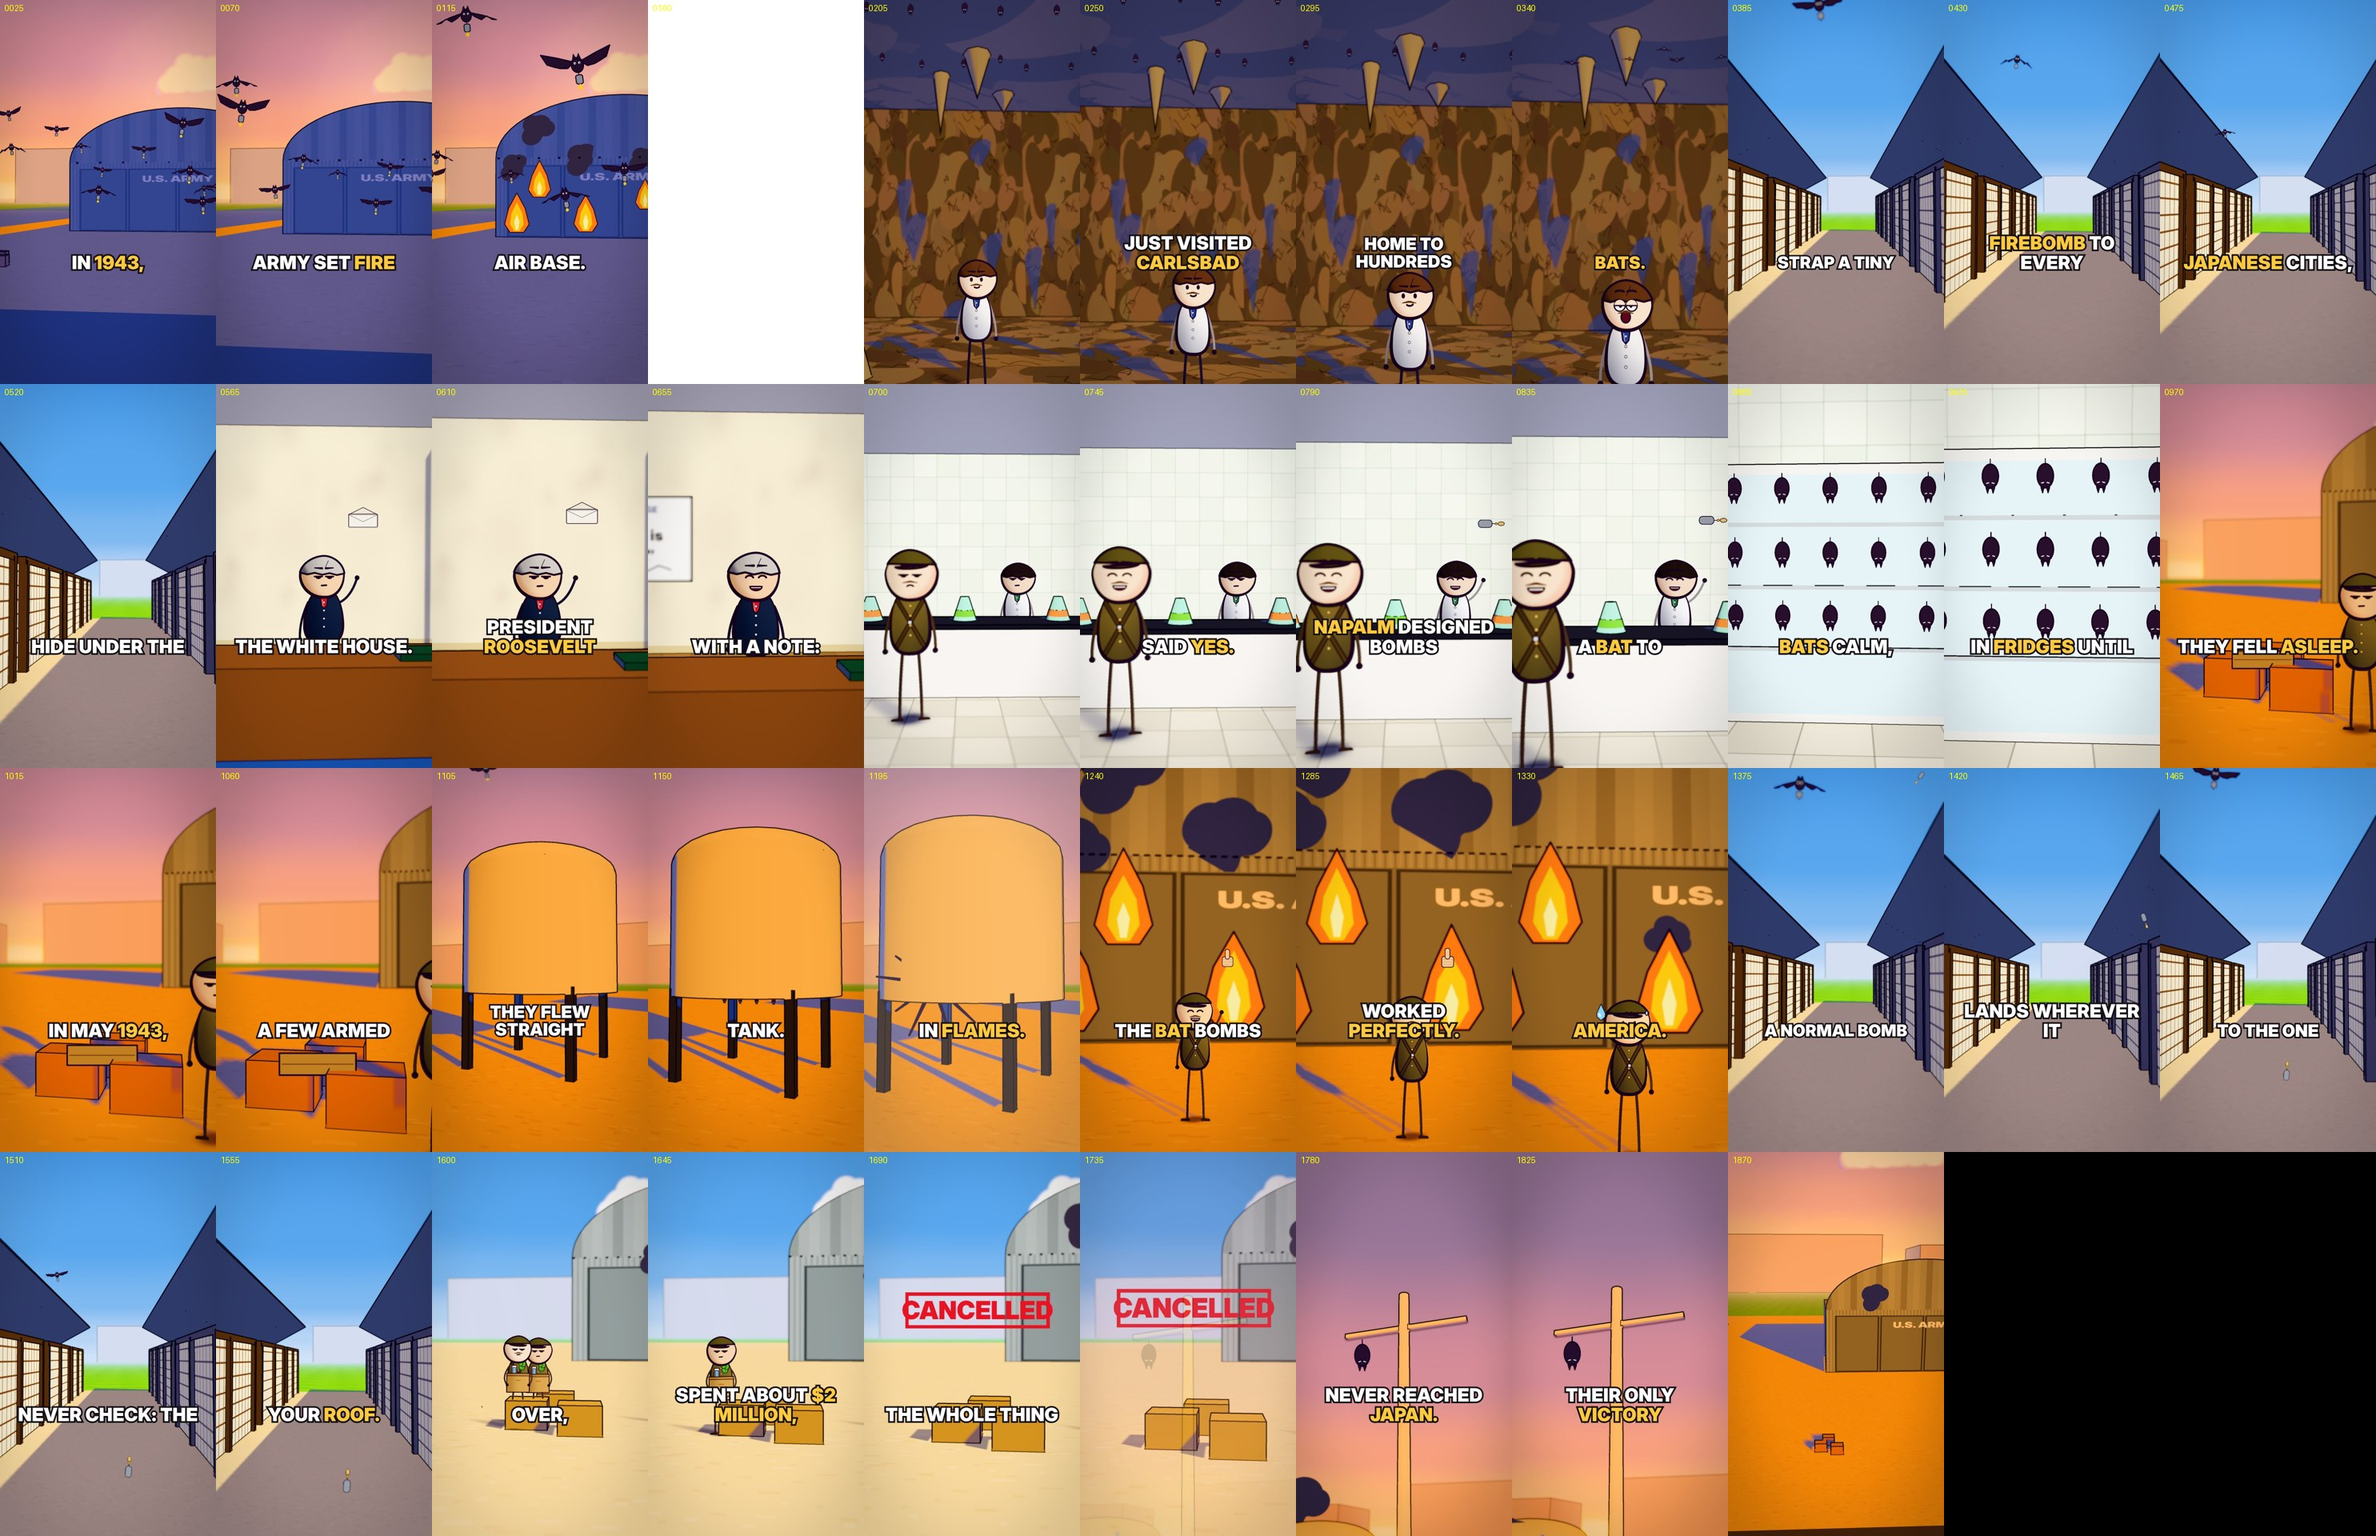
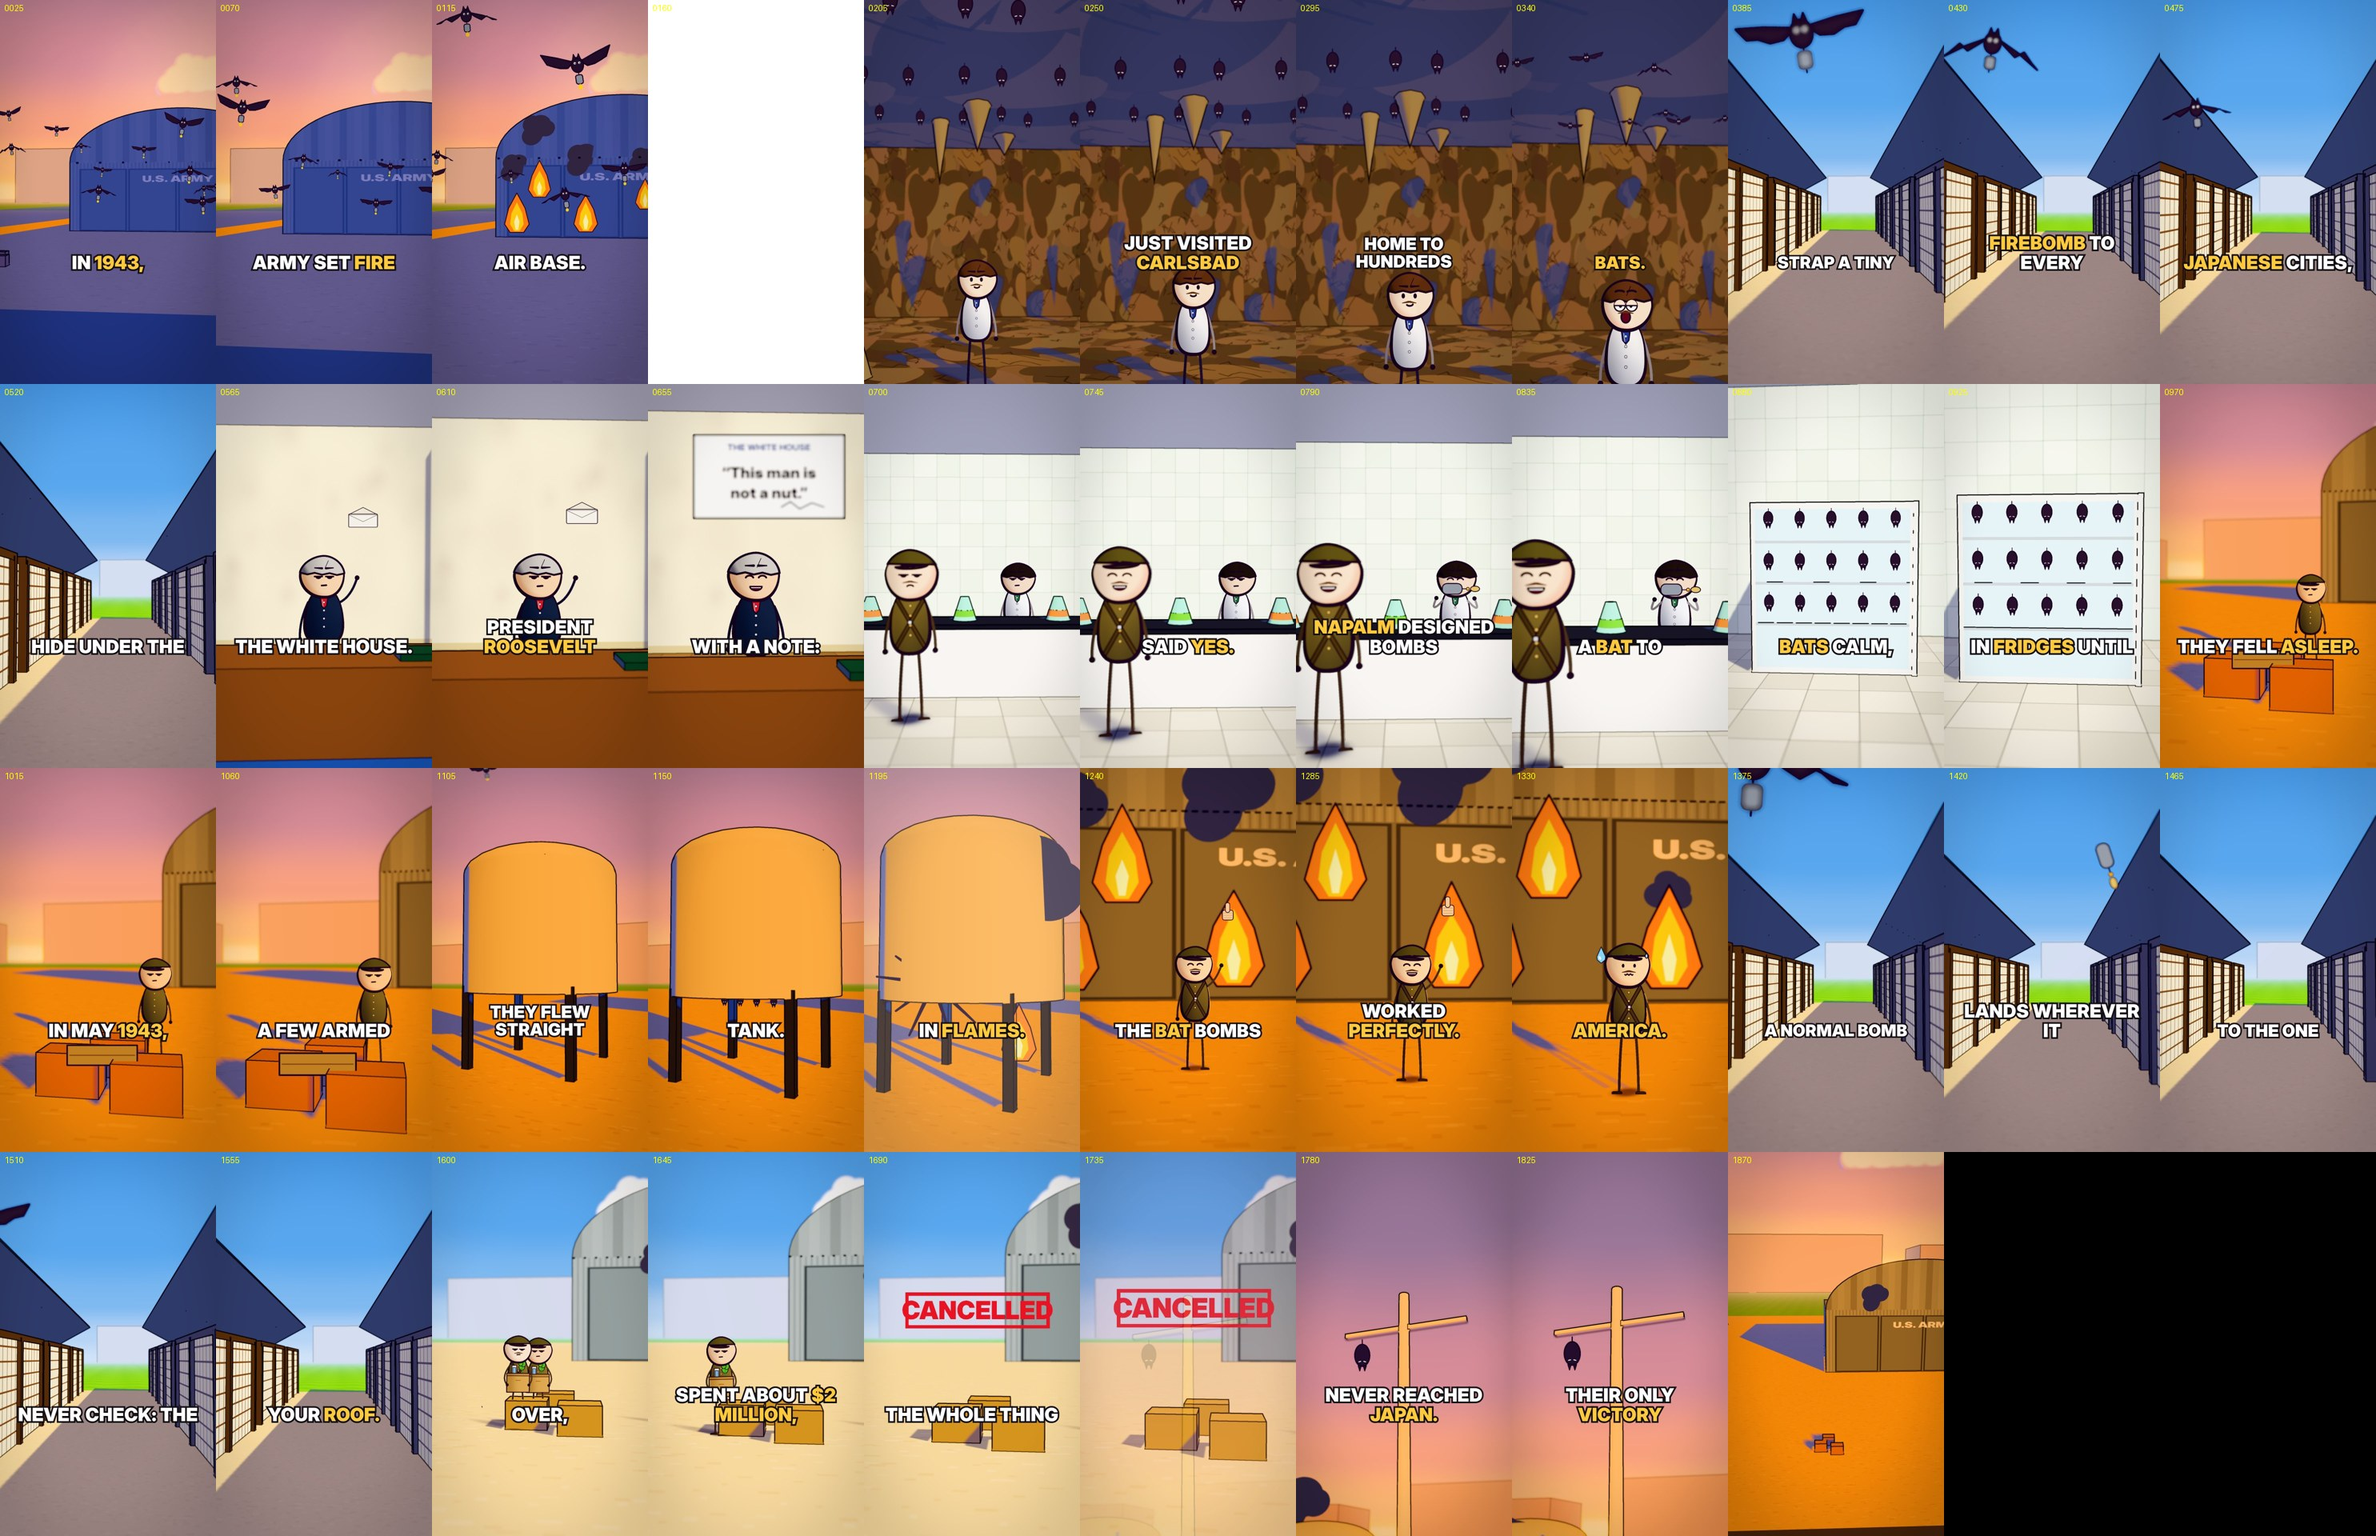
Bat bomb short: verifier fixes (cave bats, street bat and bomb in view, the note, the chemist's bomb, fridge, officer, tank fire, caption clear of faces)
Claude-Session: https://claude.ai/code/session_01RPG9ei4AhjHGFnfvapgq7p

diff --git a/finance-short/src/videos/batbomb/cast.ts b/finance-short/src/videos/batbomb/cast.ts
@@ -245,8 +245,8 @@ const bat = (out: Stage, at: V3, f: number, k: number, size = 0.5, bomb = false,
   fxCard(out, `bat${fl}${bomb ? 1 : 0}${glow ? 1 : 0}`, 300, 200, (pp) => fxBat(pp, fl, bomb, glow), at, size, size * 0.667, 0.15 * Math.sin(f * 0.2 + k));
 };
 const flames = (out: Stage, f: number, pts: V3[], start: number, size = 2.0) => pts.forEach((p, k) => {
-  if (f < start + 3 * k) return;
-  const s = size * scale01(f, start + 3 * k, 8) * (0.8 + 0.3 * hsh(k, 1)), t = q(((f * 0.12 + k * 0.29) % 1), 8);
+  if (f < start + 2 * k) return;
+  const s = size * scale01(f, start + 2 * k, 3) * (0.8 + 0.3 * hsh(k, 1)), t = q(((f * 0.12 + k * 0.29) % 1), 8);
   fxCard(out, `flame${t}`, 220, 320, (pp) => fxFlame(pp, t), [p[0], p[1] + s * 0.7, p[2]], s, s * 1.45);
   const u = ((f - start) / 40 + hsh(k, 2)) % 1;
   fxCard(out, "smoke", 260, 220, fxSmoke, [p[0] + 0.6 * u, p[1] + s * 1.2 + u * 5, p[2] + 0.3], (1.4 + u * 2.5) * size / 2, (1.2 + u * 2.1) * size / 2, u);
@@ -269,31 +269,31 @@ const shotStage = (out: Stage, cam: CamInfo, id: number, f: number) => {
     st(W_D, DENT, { mode: "stand", expr: f < 300 ? "smile" : "shock", look: 0 });
     for (let k = 0; k < 64; k++) {
       const x = CAVE.x0 + 2.5 + (k % 16) * 0.95 + 0.3 * hsh(k, 1), z = 62 + Math.floor(k / 16) * 2.0 + 0.4 * hsh(k, 2);
-      if (f < 336) fxCard(out, "batSleep", 120, 160, fxBatSleep, [x, D0 + CAVE.h - 0.35, z], 0.22, 0.3);
-      else { const u = (f - 336) / 20; bat(out, [x + Math.sin(k + f * 0.2) * u * 2, D0 + CAVE.h - 0.4 - u * (1 + 2 * hsh(k, 3)), z - u * 2], f, k, 0.34); }
+      if (f < 336) fxCard(out, "batSleep", 120, 160, fxBatSleep, [x, D0 + CAVE.h - 0.4, z], 0.4, 0.53);
+      else { const u = (f - 336) / 20; bat(out, [x + Math.sin(k + f * 0.2) * u * 2, D0 + CAVE.h - 0.4 - u * (1 + 2 * hsh(k, 3)), z - u * 2], f, k, 0.55); }
     }
   } else if (id === 3 || id === 10) {
     if (id === 3) {
-      const u = clamp01((f - 395) / 110), p = arcP([600.0, D0 + 4.2, 66.0], [601.9, EAVE_Y, 78.0], u, 0.4);
-      if (f < 505) bat(out, p, f, 0, 0.62, true); else pop(out, [601.9, EAVE_Y, 78.0], f, 505, 0.5, "#ffffff");
+      const u = clamp01((f - 395) / 110), p = arcP([600.0, D0 + 3.2, 64.5], [601.3, EAVE_Y - 0.25, 71.0], u, 0.4);
+      if (f < 505) bat(out, p, f, 0, 1.0, true); else pop(out, [601.3, EAVE_Y - 0.25, 71.0], f, 505, 0.8, "#ffffff");
     } else {
-      if (f < 1424) { const u = clamp01((f - 1376) / 20); fxCard(out, "tinybomb", 300, 200, (pp) => fxTinyBomb(pp), [597.4, D0 + 8 - 4.3 * u * u, 76], 0.5, 0.33, f * 0.3); }
-      else if (f < 1445) { const u = (f - 1424) / 21; fxCard(out, "tinybomb", 300, 200, (pp) => fxTinyBomb(pp), arcP([597.4, D0 + 3.7, 76], [599.4, D0 + 0.2, 75], u, 1.2), 0.5, 0.33, f * 0.4); }
-      else fxCard(out, "tinybomb", 300, 200, (pp) => fxTinyBomb(pp), [599.4, D0 + 0.2, 75], 0.5, 0.33, 1.5);
-      pop(out, [597.4, D0 + 3.7, 76], f, 1424, 0.6, "#ffffff");
-      const u = clamp01((f - 1450) / 95), p = arcP([600.0, D0 + 4.4, 69], [601.9, EAVE_Y, 82.0], u, 0.3);
-      if (f < 1545) bat(out, p, f, 1, 0.62, true); else pop(out, [601.9, EAVE_Y, 82.0], f, 1545, 0.5, "#ffffff");
+      if (f < 1424) { const u = clamp01((f - 1376) / 20); fxCard(out, "tinybomb", 300, 200, (pp) => fxTinyBomb(pp), [598.9, D0 + 7.6 - 3.8 * u * u, 71], 0.8, 0.53, f * 0.3); }
+      else if (f < 1445) { const u = (f - 1424) / 21; fxCard(out, "tinybomb", 300, 200, (pp) => fxTinyBomb(pp), arcP([598.9, D0 + 3.8, 71], [600.0, D0 + 0.3, 70], u, 1.2), 0.8, 0.53, f * 0.4); }
+      else fxCard(out, "tinybomb", 300, 200, (pp) => fxTinyBomb(pp), [600.0, D0 + 0.3, 70], 0.8, 0.53, 1.5);
+      pop(out, [598.9, D0 + 3.8, 71], f, 1424, 1.0, "#ffffff");
+      const u = clamp01((f - 1450) / 95), p = arcP([599.9, D0 + 3.3, 66.5], [601.3, EAVE_Y - 0.25, 73.0], u, 0.3);
+      if (f < 1545) bat(out, p, f, 1, 1.0, true); else pop(out, [601.3, EAVE_Y - 0.25, 73.0], f, 1545, 0.5, "#ffffff");
     }
   } else if (id === 4) {
     st(W_P, FDR, { mode: "stand", expr: f < 641 ? "neutral" : "grin", look: 0, wave: f >= 560 && f < 640 ? 0.8 : undefined });
     if (f >= 549 && f < 560) fxCard(out, "envW", 440, 300, (pp) => fxEnvelope(pp, false, false), arcP([325, D0 + 2.5, 60], raised(cam, FDR), (f - 549) / 11, 0.3), 0.36, 0.25, f * 0.4);
     if (f >= 560 && f < 640) held(out, cam, FDR, "envOpen", 440, 300, (pp) => fxEnvelope(pp, false, true), 0.36);
-    if (f >= 641) fxCard(out, "note", 520, 300, fxNoteWH, toward(cam, [328.4, DESK.y + 0.95, DESK.z0 - 0.3], 0.1), 0.85 * scale01(f, 641, 5), 0.49 * scale01(f, 641, 5));
-    pop(out, toward(cam, [328.4, DESK.y + 0.95, DESK.z0 - 0.3], 0.15), f, 641, 1.0);
+    if (f >= 641) fxCard(out, "note", 520, 300, fxNoteWH, toward(cam, [328.0, DESK.y + 1.3, DESK.z0 - 0.3], 0.1), 0.85 * scale01(f, 641, 5), 0.49 * scale01(f, 641, 5));
+    pop(out, toward(cam, [328.0, DESK.y + 1.3, DESK.z0 - 0.3], 0.15), f, 641, 1.0);
   } else if (id === 5) {
-    st(W_C, CHEM, { mode: "stand", expr: f >= 751 ? "grin" : "neutral", wave: f >= 751 ? 1 : undefined, look: 0 });
-    if (f >= 751) held(out, cam, CHEM, "tinybomb", 300, 200, (pp) => fxTinyBomb(pp), 0.42, scale01(f, 751, 5));
-    pop(out, raised(cam, CHEM), f, 751, 0.6);
+    st(W_C, CHEM, { mode: "stand", expr: f >= 751 ? "grin" : "neutral", prop: f >= 751 ? "present" : null, look: 0 });
+    if (f >= 751) { const s = scale01(f, 751, 5); fxCard(out, "tinybomb", 300, 200, (pp) => fxTinyBomb(pp), toward(cam, onCard(cam, CHEM, 0.05, 1.25), 0.1), 0.6 * s, 0.4 * s); }
+    pop(out, toward(cam, onCard(cam, CHEM, 0.05, 1.25), 0.15), f, 751, 0.7);
     st(OFF[0], OFFICER_LAB, { mode: "stand", expr: f >= 727 ? "grin" : "stern", look: 0, headTilt: f >= 727 && f < 745 ? q(8 * Math.sin((f - 727) * 0.6), 2) : 0 }, true);
   } else if (id === 6) {
     for (let r = 0; r < 3; r++) for (let k = 0; k < 5; k++)
@@ -308,13 +308,13 @@ const shotStage = (out: Stage, cam: CamInfo, id: number, f: number) => {
       const f0 = 1070 + 2 * k; if (f < f0) continue;
       const u = (f - f0) / 30; bat(out, [452.1 + (hsh(k, 1) - 0.5) * 4 * u, D0 + 0.8 + 3.5 * u, 130.0 + 3 * u * hsh(k, 2)], f, k, 0.45, true);
     }
-    st(OFF[1], [450.9, D0, 129.4], { mode: "stand", expr: open ? "shock" : "neutral", look: 0 });
+    st(OFF[1], [451.6, D0, 131.9], { mode: "stand", expr: open ? "shock" : "neutral", look: 0 });
   } else if (id === 8) {
     for (let k = 0; k < 6; k++) {
       const f0 = 1104 + 3 * k, u = clamp01((f - f0) / 34);
       const a: V3 = [462 + 2 * hsh(k, 1), D0 + 5 + 2 * hsh(k, 2), 133], b: V3 = [TANK[0] - 1.2 + 0.5 * k, D0 + TANK_LEG - 0.15, TANK[2] - 0.4];
       if (u < 1) bat(out, arcP(a, b, u, 0.5), f, k, 0.45, true, true);
-      else if (f < FIRE_TANK) fxCard(out, "batSleep", 120, 160, fxBatSleep, b, 0.2, 0.27);
+      else if (f < FIRE_TANK) fxCard(out, "batSleep", 120, 160, fxBatSleep, toward(cam, b, 0.3), 0.34, 0.45);
     }
     flames(out, f, TANK_FIRE, FIRE_TANK, 2.6);
     pop(out, [466, D0 + 2.6, 138.0], f, FIRE_TANK, 4.0, "#ffd23f");

diff --git a/finance-short/src/videos/batbomb/story.ts b/finance-short/src/videos/batbomb/story.ts
@@ -29,7 +29,7 @@ export const ease = (pts: [number, number][], x: number) => {
 
 // ---------------- places ----------------
 export type Room = { x0: number; x1: number; z0: number; z1: number; h: number };
-export const CAVE: Room = { x0: 280, x1: 300, z0: 56, z1: 72, h: 7 };
+export const CAVE: Room = { x0: 280, x1: 300, z0: 56, z1: 72, h: 5.6 };
 export const DENT: V3 = [290, D0, 64.6];
 export const OFFICE: Room = { x0: 320, x1: 336, z0: 56, z1: 68, h: 4.2 };
 export const DESK = { x0: 326.5, x1: 329.5, z0: 63.4, z1: 64.4, y: D0 + 0.76 };
@@ -128,10 +128,10 @@ const C2 = (f: number) => dolly([290.3, D0 + 1.5, 58.8], [290.0, D0 + 2.9, 66.0]
 const C3 = (f: number) => dolly([599.6, D0 + 1.9, 61.0], [600.4, D0 + 2.7, 80.0], pushK(f, 358, 0.0014), { fov: 52 });
 const C4 = (f: number) => dolly([328.2, D0 + 1.6, 59.8], [328.0, D0 + 1.45, 65.0], pushK(f, 540, 0.0016, 0.005, 16), { fov: 50 });
 const C5 = (f: number) => dolly([366.4, D0 + 1.6, 59.4], [366.3, D0 + 1.45, 64.8], pushK(f, 698, 0.0016), { fov: 52 });
-const C6 = (f: number) => dolly([373.1, D0 + 1.3, 62.6], [373.3, D0 + 1.05, 66.8], pushK(f, 860, 0.0022, 0.006, 16), { fov: 48 });
+const C6 = (f: number) => dolly([373.0, D0 + 1.35, 61.6], [373.3, D0 + 1.05, 66.8], pushK(f, 860, 0.0018, 0.005, 16), { fov: 54 });
 const C7 = (f: number) => dolly([451.2, D0 + 1.7, 125.0], [452.2, D0 + 1.7, 131.0], pushK(f, 970, 0.0016, 0.006, 16), { fov: 52 });
 const C8 = (f: number) => dolly([461.0, D0 + 2.6, 129.0], [466.0, D0 + 3.2, 140.0], pushK(f, 1100, 0.0016, 0.006, 16), { fov: 54 });
-const C9 = (f: number) => dolly([446.4, D0 + 1.7, 135.2], [446.0, D0 + 2.4, 143.0], pushK(f, 1220, 0.0016), { fov: 52 });
+const C9 = (f: number) => dolly([446.4, D0 + 1.6, 135.2], [446.0, D0 + 1.55, 143.0], pushK(f, 1220, 0.0016), { fov: 52 });
 const C10 = (f: number) => dolly([599.4, D0 + 2.2, 64.0], [600.0, D0 + 2.8, 80.0], pushK(f, 1348, 0.0014), { fov: 52 });
 const C11 = (f: number) => dolly([451.6, D0 + 1.8, 122.4], [452.4, D0 + 1.6, 131.0], pushK(f, 1572, 0.0014, 0.006, 16), { fov: 52 });
 const C12a = (f: number) => dolly([456.2, D0 + 5.5, 121.5], [458.0, D0 + 8.2, 127.0], pushK(f, 1740, 0.0016), { fov: 48 });
